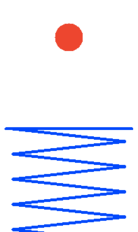
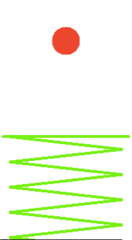
Sync animation and plot colours.

Changed region(s): [[0.0, 0.5431, 1.0, 1.0], [0.3939, 0.0905, 0.6061, 0.2414]]

diff --git a/examples/ball_spring/readme.md b/examples/ball_spring/readme.md
@@ -15,7 +15,7 @@ together until the ball becomes unstuck.
 
 The calls to OCaml graphics for animating the system are written directly in
 a discrete node. Additional calls are added to log the system state to a
-file for [visualization](img/ball_spring.pdf) with
+file for [graphing](img/ball_spring.pdf) with
 [gnuplot](http://gnuplot.sourceforge.net/).
 
 !SOURCEFILE: ball_spring.zls
